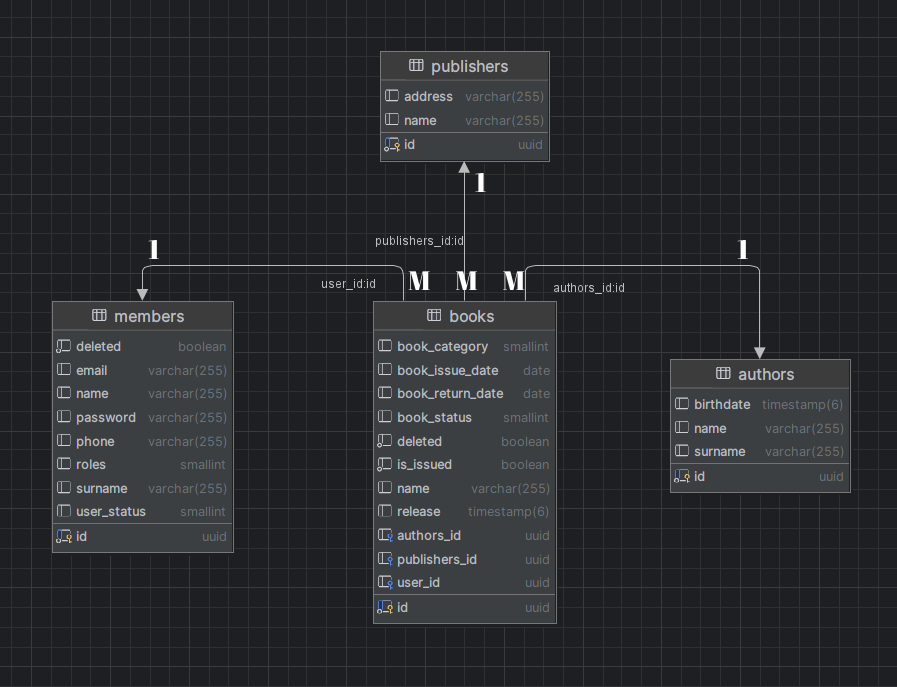
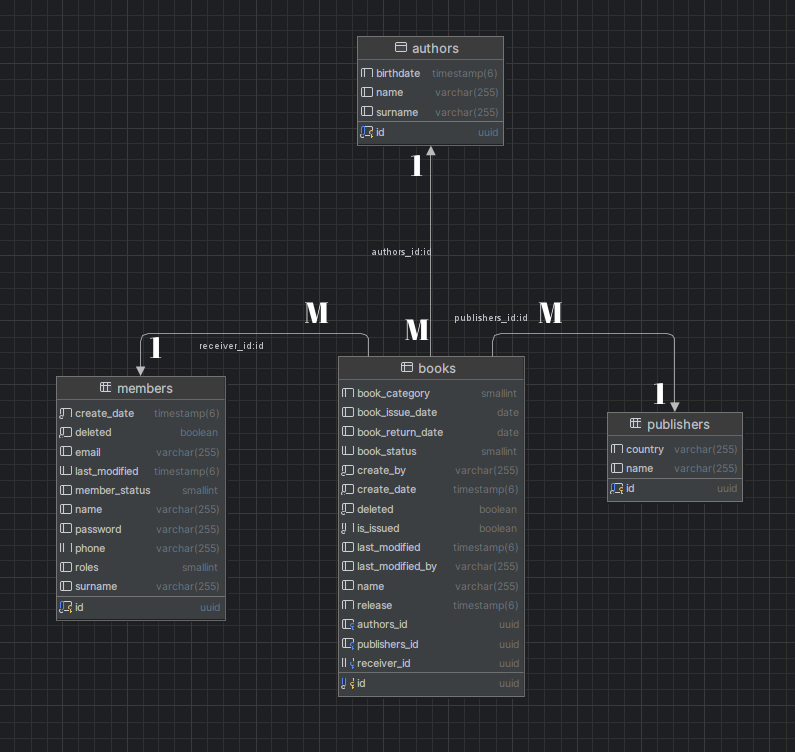
Refactor: rename

diff --git a/src/main/java/com/librarymanagement/domain/request/PublishersRequestDto.java b/src/main/java/com/librarymanagement/domain/request/PublishersRequestDto.java
@@ -13,7 +13,7 @@ public class PublishersRequestDto {
     @Size(min = 2, max = 30, message = "Publisher's name length must be between 2 and 30 characters")
     private String name;
 
-    @NotBlank(message = "publishers name is required")
-    @Pattern(regexp = "^[a-zA-ZğüşıöçĞÜŞİÖÇ\\s\\d]+$",message = "Publisher's name must be characters or number") // sadece harf olabilir, sayı ve özel karakter olamaz
-    private String address;
+    @NotBlank(message = "publishers country is required")
+    @Pattern(regexp = "^[a-zA-ZğüşıöçĞÜŞİÖÇ\\s]+$",message = "Publisher's country must be only characters") // sadece harf olabilir, sayı ve özel karakter olamaz
+    private String country;
 }

diff --git a/src/main/java/com/librarymanagement/domain/model/Publishers.java b/src/main/java/com/librarymanagement/domain/model/Publishers.java
@@ -21,7 +21,7 @@ public class Publishers {
     @UuidGenerator(style = UuidGenerator.Style.RANDOM)
     private UUID id;
     private String name;
-    private String address;
+    private String country;
 
     @JsonBackReference
     @OneToMany(mappedBy = "publishers",cascade = CascadeType.ALL)

diff --git a/src/main/java/com/librarymanagement/domain/response/PublishersResponseDto.java b/src/main/java/com/librarymanagement/domain/response/PublishersResponseDto.java
@@ -6,6 +6,6 @@ import lombok.Data;
 public class PublishersResponseDto {
 
     private String name;
-    private String address;
+    private String country;
 
 }

diff --git a/README.md b/README.md
@@ -10,15 +10,21 @@
 * Kitap eklemek silmek ve düzenlemek için ADMIN hesabı oluşturulmalı.
 * Kullanıcılar ve Adminler İd ve isime göre kitap arama yapabilir.
 * Adminler kitap ekleyebilir silebilir ve güncelleyebilirler.
+* Kullanıcı ve kitap id'leri ile kitap kiralama ve iade işlemleri yapılabilir.
 * Kullanıcı aynı anda en fazla 5 kitap kiralayabilir.
 * Kullanıcı kiraladığı kitapları 10 gün içinde iade etmezse hergün için gecikme ücreti öder.
+* Kitaplar üzerinde yapılan değişiklerin tarih ve kim tarafından yapıldığı bilgileri tutulur.
+
+
+
   </br>
 
 ### 1.3 Model
 >**Book:** </br>
 name: (min:1, max:50) is required/only characters</br> 
 release: (min:1, max:2024) is required/only number</br> 
-category: (min:5, max:20) is required/only characters</br></br>
+category: (min:5, max:20) is required/only characters</br>
+
 
 >**Author:** </br> 
 name: (min:10, max:40) is required/only characters</br>
@@ -27,7 +33,7 @@ birthdate: (Birthdate must be in the past) is required/only number</br>
 
 >**Publisher:** </br>
 name: (min:2, max:30) is required/only characters</br>
-address: is required/only characters or number
+country: is required/only characters
 
 >**Member:** </br>
 name: (min:1, max:50) is required/only characters</br>
@@ -37,10 +43,7 @@ email: Must be email type</br>
 password: 1 büyük, 1 küçük, 1 özel karakter ve 8-20 arası boyut </br> 
 roles: (ADMIN|USER) is required
 
-
-
-
-  </br></br></br>
+</br></br></br>
 ## 2. YAPI
 ### 2.1 Mimari
 > **REST** mimarisi uygulandı
@@ -75,6 +78,7 @@ roles: (ADMIN|USER) is required
   </br>
 ### 3.2 Kütüphane ve Bağımlılıklar
 * Spring Boot Data Jpa
+* Auditing
 * Hibernate
 * Spring Boot Security
 * Lombok
@@ -89,16 +93,16 @@ roles: (ADMIN|USER) is required
 
 ### 4. ENDPOİNT
 ## Book
-| HTTP Method | Endpoint                      | Açıklama                                             | Yetki        |
-|-------------|-------------------------------|------------------------------------------------------|--------------|
-| GET         | /api/books                    | Tüm kitapları çeker                                  | ADMIN & USER |
-| GET         | /api/booksById/{id}           | Id'e göre kitap çeker                                | ADMIN & USER |
-| GET         | /api/booksByName/{name}       | Name'e göre kitap çeker                              | ADMIN & USER |
-| POST        | /api/books                    | Yeni kitap oluşturur                                 | ADMIN        |
-| PUT         | /api/books/{id}               | Id'e göre varolan kitabı günceller                   | ADMIN        |
-| DELETE      | /api/books/{id}               | Id'e göre kitabı siler                               | ADMIN        |
-| PUT         | /api/bookIssue/{userId}       | User Id'e göre kitap kiralar/Request param(bookName) | ADMIN & USER |
-| PUT         | /bookReturn/{userId}/{bookId} | User Id ve Book Id ile kitap iade eder               | ADMIN & USER |
+| HTTP Method | Endpoint                          | Açıklama                                        | Yetki        |
+|-------------|-----------------------------------|-------------------------------------------------|--------------|
+| GET         | /api/books                        | Tüm kitapları çeker                             | ADMIN & USER |
+| GET         | /api/books/{id}                   | Id'e göre kitap çeker                           | ADMIN & USER |
+| GET         | /api/search                       | Name'e göre kitap çeker/Request param(bookName) | ADMIN & USER |
+| POST        | /api/books                        | Yeni kitap oluşturur                            | ADMIN        |
+| PUT         | /api/books/{id}                   | Id'e göre varolan kitabı günceller              | ADMIN        |
+| DELETE      | /api/books/{id}                   | Id'e göre kitabı siler                          | ADMIN        |
+| PUT         | /api/book/issue/{userId}/{bookId} | User Id ve Book Id ile kitap kiralar            | ADMIN & USER |
+| PUT         | api/book/return/{userId}/{bookId} | User Id ve Book Id ile kitap iade eder          | ADMIN & USER |
 
 
 
@@ -127,17 +131,17 @@ roles: (ADMIN|USER) is required
 },</br>
 "publishers": {</br>
 "name": "İş Bankası Kültür Yayınları",</br>
-"address": "no:78/4 Yeni mahalle Çankaya Ankara/Turkey"</br>
+"country": "Turkey"</br>
 }
 }
 
 ### User
 >{
-"name": "Nur",</br>
+"name": "Ali",</br>
 "surname": "Çınar",</br>
 "phone":"+905423351265",</br>
-"email":"nur@gmail.com",</br>
-"password":"Nur1453*",</br>
+"email":"ali@gmail.com",</br>
+"password":"Ali1453*",</br>
 "roles":"USER"</br>
 }
 </br></br></br>
